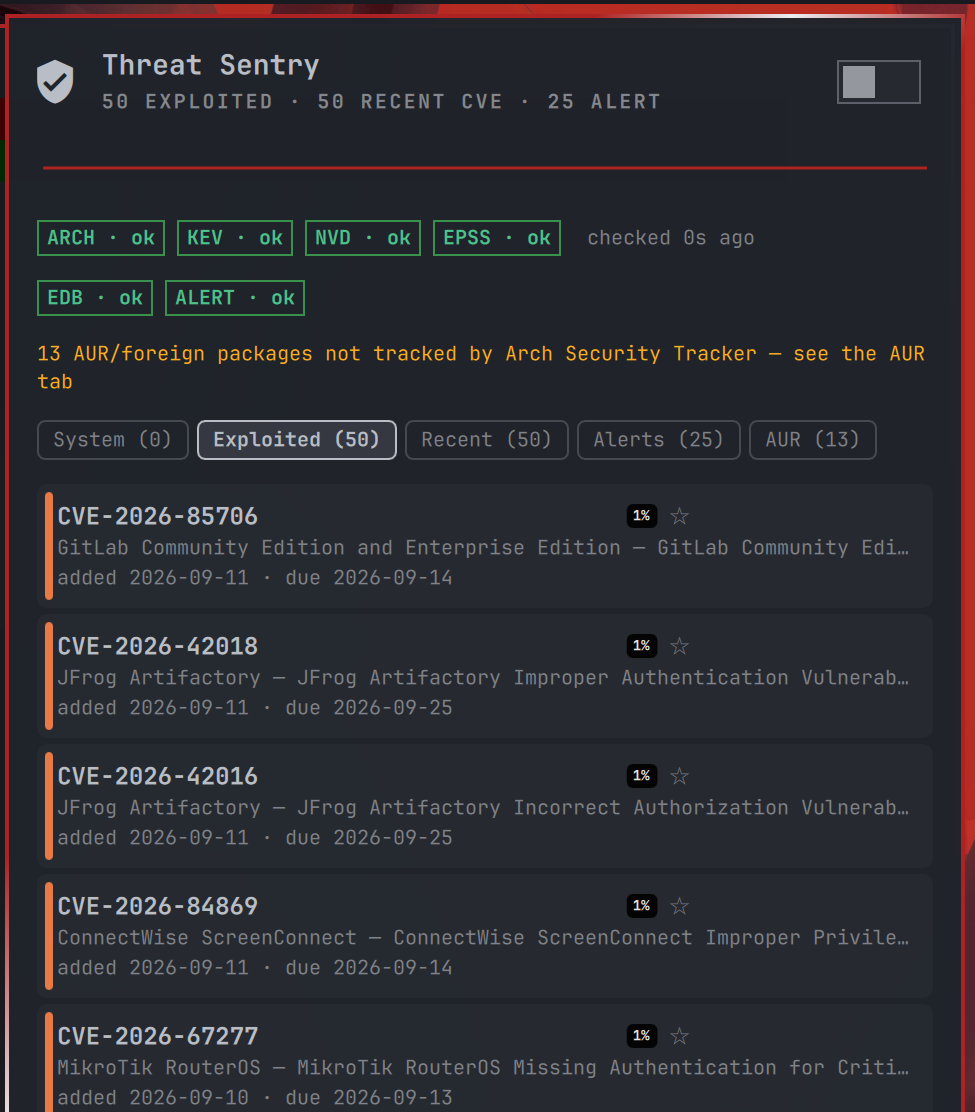
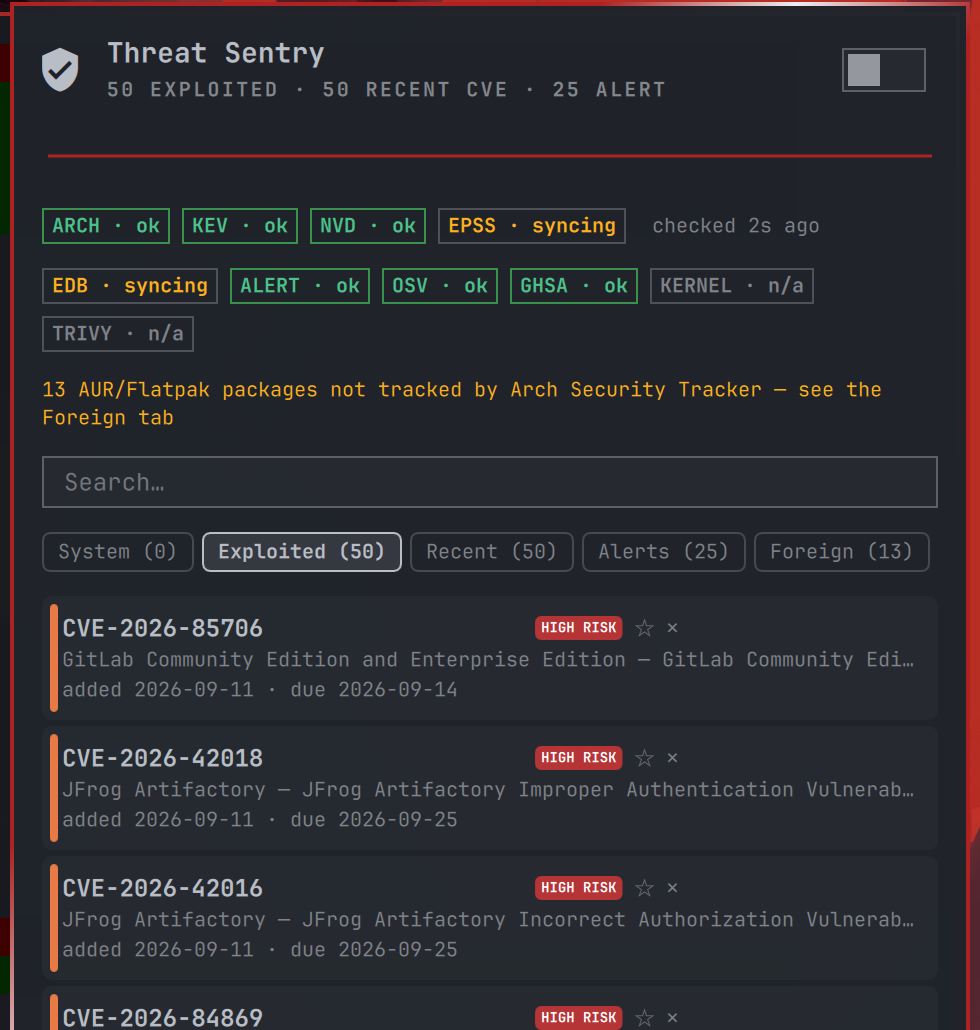
Refresh README screenshots and fix status-pill row overflow
Replaces the two original screenshots (stale after the AUR tab was renamed
to Foreign) and adds two new ones: the Foreign tab and the CVE detail
overlay with the Copy report button, showing the click-through fix from
earlier this session actually working.

While capturing them, found the same layout bug in the status-pill row
that the tab row had: six pills no longer fit on one line, silently
clipping TRIVY off-screen. Switched that row from Row to Flow so it wraps
instead of clipping.

Claude-Session: https://claude.ai/code/session_01EKEy45hFwanGmggxHw8VKu

diff --git a/Panel.qml b/Panel.qml
@@ -1207,7 +1207,10 @@ Panel {
             }
           }
 
-          Row {
+          // Flow (not Row) — six pills no longer fit on one line at the
+          // panel's width, and unlike the tab row these are glanceable
+          // status, not something worth requiring a scroll to see the rest.
+          Flow {
             width: parent.width
             spacing: Style.space(6)
 

diff --git a/README.md b/README.md
@@ -7,8 +7,10 @@ It correlates live security data against the packages actually installed on this
 ## Screenshots
 
 <p align="center">
-  <img src="screenshots/exploited-tab.png" width="380" alt="Exploited tab: CISA KEV entries with EPSS exploit-probability scores">
-  <img src="screenshots/recent-cve-tab.png" width="380" alt="Recent tab: high/critical NVD CVEs with CVSS scores">
+  <img src="screenshots/exploited-tab.png" width="380" alt="Exploited tab: CISA KEV entries with composite risk badges and EPSS scores">
+  <img src="screenshots/recent-cve-tab.png" width="380" alt="Recent tab: high/critical NVD + GHSA CVEs with CVSS scores">
+  <img src="screenshots/foreign-tab.png" width="380" alt="Foreign tab: AUR and Flatpak packages not covered by Arch Security Tracker">
+  <img src="screenshots/cve-detail.png" width="380" alt="CVE detail overlay with description, references, and a Copy report button">
 </p>
 
 ## What it watches
